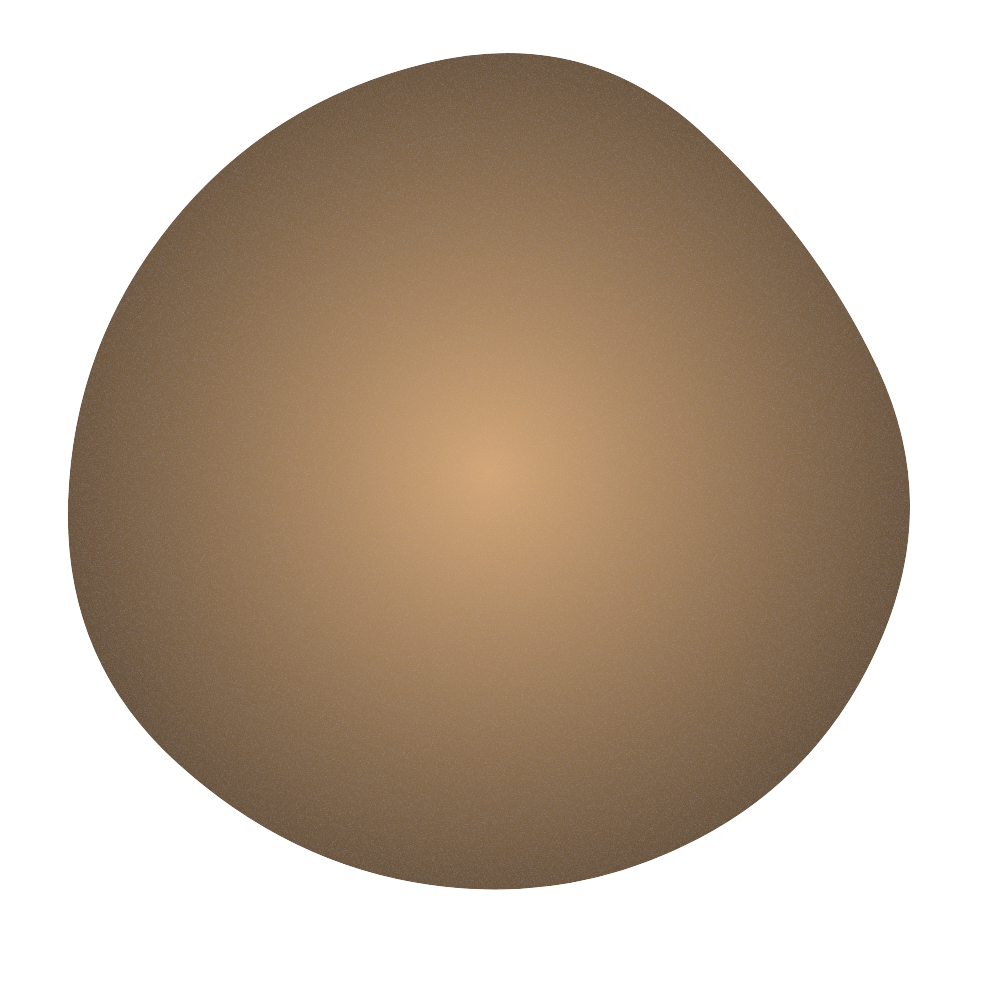
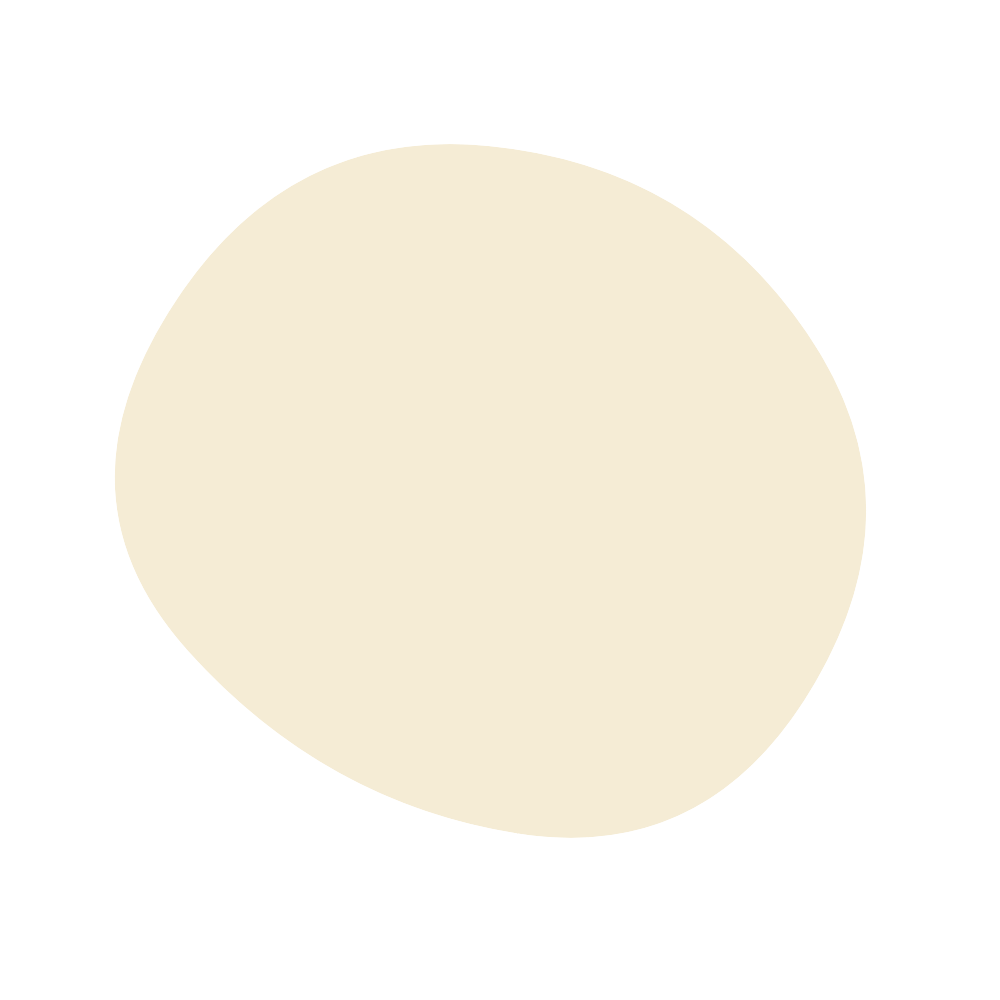
finilizing Hero part

diff --git a/src/components/Hero.jsx b/src/components/Hero.jsx
@@ -2,14 +2,14 @@ import P1 from "../assets/1.jpg";
 import { TypeAnimation } from "react-type-animation";
 import { SlArrowDown } from "react-icons/sl";
 import Blb1 from "../assets/blb1.png";
-import Blb2 from "../assets/blb2.png";
 
 function Hero() {
   return (
-    <div className="bg-black ">
-      <div className="max-w-[1024px] mx-auto h-lvh flex justify-center items-center flex-col-reverse md:flex-row ">
-        <div className=" text-gray-300 min-w-[500px] mr-[-200px] h-full flex items-center justify-center flex-col text-3xl z-10  ">
-          <div className=" relative z-10 mt-11 top-[150px] left-11">
+    <div className="bg-black w-screen ">
+      <div className="mx-auto h-lvh flex justify-center items-center flex-col-reverse  lg:flex-row ">
+        <div className="absolute lg:relative text-gray-300 md:min-w-[500px] max-w-[500px] lg:mr-[-200px] h-full flex items-center justify-center flex-col text-3xl z-10  ">
+          <div className=" relative z-10 top-[120px] ">
+            {/* typing animation */}
             <TypeAnimation
               style={{
                 whiteSpace: "pre-line",
@@ -18,27 +18,31 @@ function Hero() {
               }}
               speed={20}
               sequence={[`Designing Dreams,\nPackaging Perfection`, 2000, ""]}
-              className="font-Playwrite font-bold leading-loose "
+              className="font-Playwrite font-bold leading-loose text-white mb-10 "
               repeat={Infinity}
             />
           </div>
-          <div className=" max-w-26 h-auto mt-[-50%]   ">
+
+          {/* bulb images */}
+          <div className=" max-w-26 h-auto mt-[-50%] opacity-35   ">
             <img src={Blb1} alt="/" className="w-26 h-26 blur-2xl" />
-            <img
-              src={Blb2}
-              alt="/"
-              className="mt-[-90%] w-23 h-23 ml-16 blur-2xl"
-            />
           </div>
-          <button className="relative flex items-center font-IBMPlex text-xl mt-[-30%] gap-4 border border-gray-400 p-2 px-7 z-10 left-16">
+
+          {/* button */}
+          <button className="relative flex items-center text-white font-IBMPlex text-lg mt-[-30%] gap-4 border border-black border-opacity-60 border-r-2 border-b-2 r p-2 px-7 z-10 shadow-2xl ">
             <span>
-              <SlArrowDown className="w-4 h-4 text-gray-500" />
+              <SlArrowDown className="w-4 h-4 text-white" />
             </span>
             محصولات
           </button>
         </div>
 
-        <img src={P1} alt="1" className="h-full w-auto object-contain mr-16 " />
+        {/* main image */}
+        <img
+          src={P1}
+          alt="1"
+          className="h-full w-auto object-contain lg:mr-16 mr-32  "
+        />
       </div>
     </div>
   );

diff --git a/src/components/About.jsx b/src/components/About.jsx
@@ -1,19 +1,17 @@
-import P2 from "../assets/2.jpg";
-
 function About() {
   return (
     <div className="bg-black ">
       <div className="max-w-[1024px] mx-auto h-[400px] flex justify-center items-center">
         <img
-          src={P2}
+          src="https://cdn.dribbble.com/users/2085015/screenshots/4358563/media/261fd6f013c3e7470e10d31ac56728e7.gif"
           alt=""
-          className="w-full h-full object-contain ml-[-25%]"
+          className="w-full h-full object-contain ml-[-25%] opacity-20"
         />
         <div className="max-w-[450px]">
-          <p className="text-gray-400 font-bold text-right text-xl font-IBMPlex mb-9">
+          <p className="text-white font-bold text-right text-xl font-IBMPlex mb-9">
             درباره ما
           </p>
-          <p className="text-gray-400 text-right text-justify font-IBMPlex">
+          <p className="text-white text-right text-justify font-IBMPlex">
             شروع به کار مجموعه چاپ و بسته بندی های لوکس حمزه در تاریخ ۱۳۸۷ توسط
             برادران حمزه به عنوان سرمایه گذاران و مدیران مجموعه می باشد. تمام
             پکیج های طراحی و چاپ شده این مجموعه زیر نظر بهترین و مجرب ترین

diff --git a/src/components/Navbar.jsx b/src/components/Navbar.jsx
@@ -1,6 +1,7 @@
 import { useEffect, useRef, useState } from "react";
 import { AiOutlineClose, AiOutlineMenu } from "react-icons/ai";
 import { SlQuestion } from "react-icons/sl";
+import { SlArrowDown } from "react-icons/sl";
 
 function Navbar() {
   const [nav, setNav] = useState(false);
@@ -28,8 +29,11 @@ function Navbar() {
           <li className="p-5">
             <a href="#Home">صفحه اصلی</a>
           </li>
-          <li className="p-5">
-            <a href="#Projects">محصولات</a>
+          <li className="p-5 flex flex-row-reverse items-center gap-1">
+            <a href="#Projects">محصولات</a>{" "}
+            <span>
+              <SlArrowDown className="w-3 h-3 text-white" />
+            </span>
           </li>
 
           <li className="p-5">
@@ -41,7 +45,7 @@ function Navbar() {
         </ul>
 
         <div className=" md:flex">
-          <SlQuestion className="w-6 h-6 text-gray-500" />
+          <SlQuestion className="w-6 h-6 text-gray-500 hidden md:flex mr-6" />
         </div>
 
         <div onClick={handleNav} className="block md:hidden">

diff --git a/tailwind.config.js b/tailwind.config.js
@@ -7,6 +7,13 @@ export default {
         Playwrite: ["Playwrite AU SA", "serif"],
         IBMPlex: ["IBM Plex Sans Arabic", "serif"],
       },
+      colors: {
+        transparent: "transparent",
+        current: "currentColor",
+        white: "#FFFAEC",
+        whiteCream: "#F5ECD5",
+        green: "#578E7E",
+      },
     },
   },
   plugins: [],

diff --git a/index.html b/index.html
@@ -14,7 +14,7 @@
       rel="stylesheet"
     />
     <meta name="viewport" content="width=device-width, initial-scale=1.0" />
-    <title>Vite + React</title>
+    <title>WE</title>
   </head>
   <body>
     <div id="root"></div>
